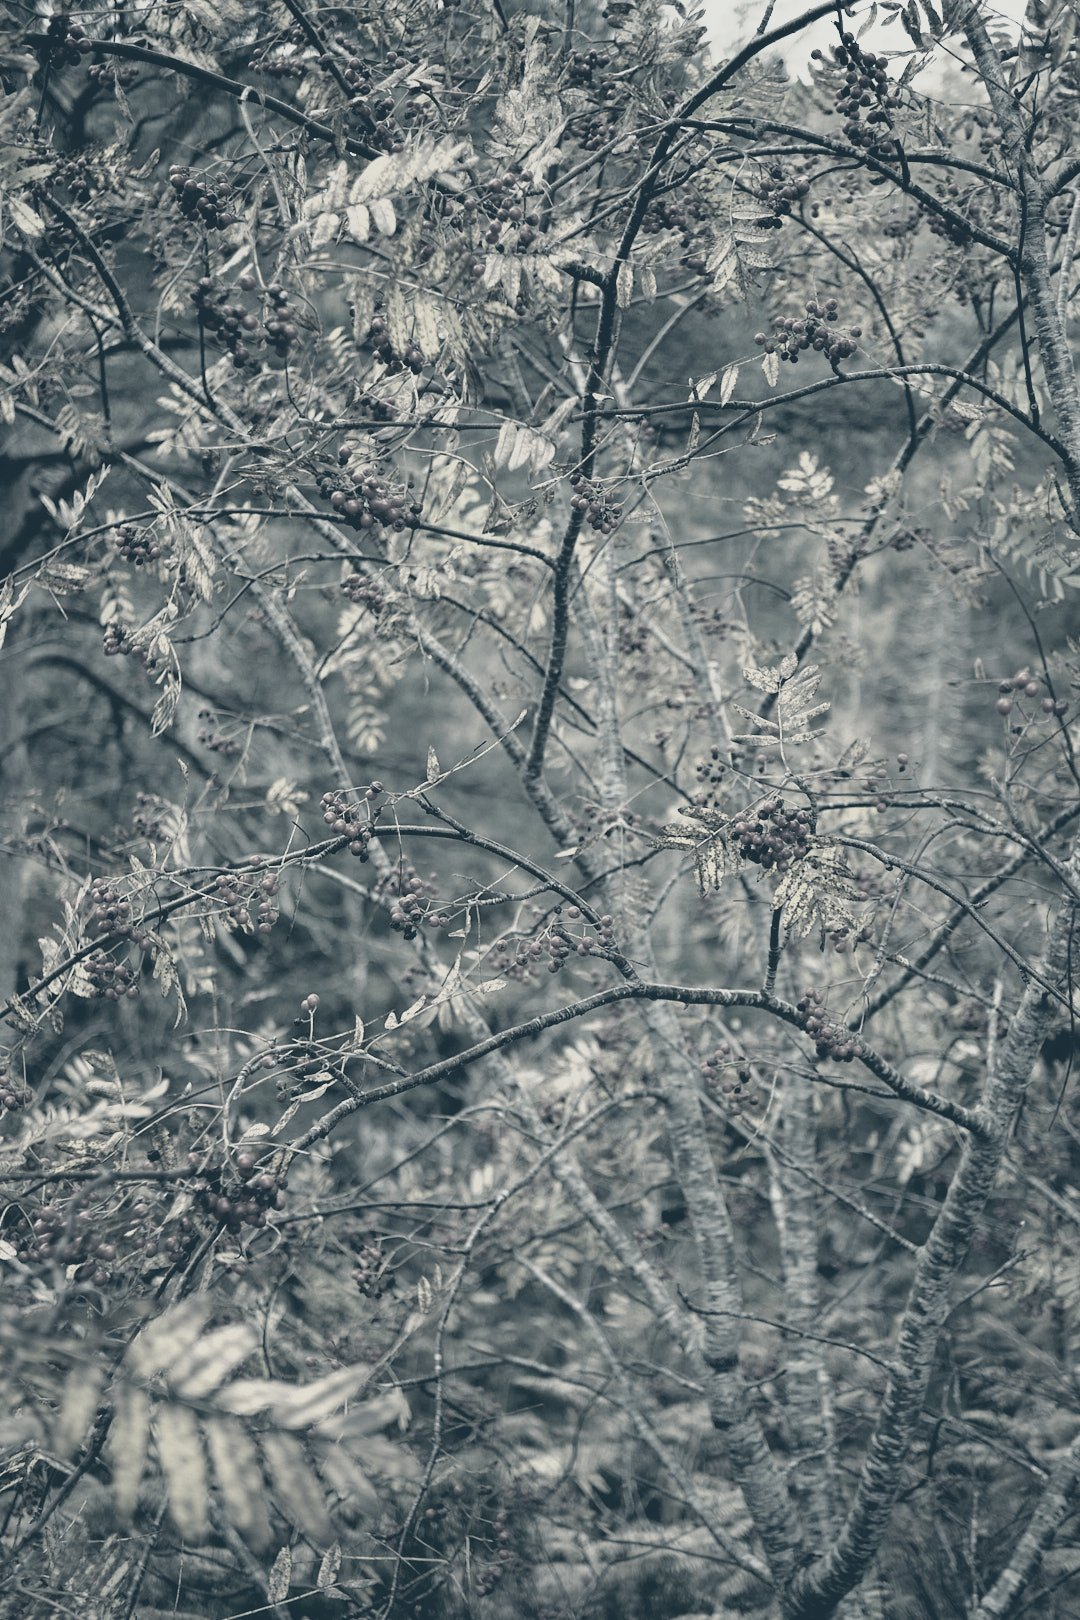
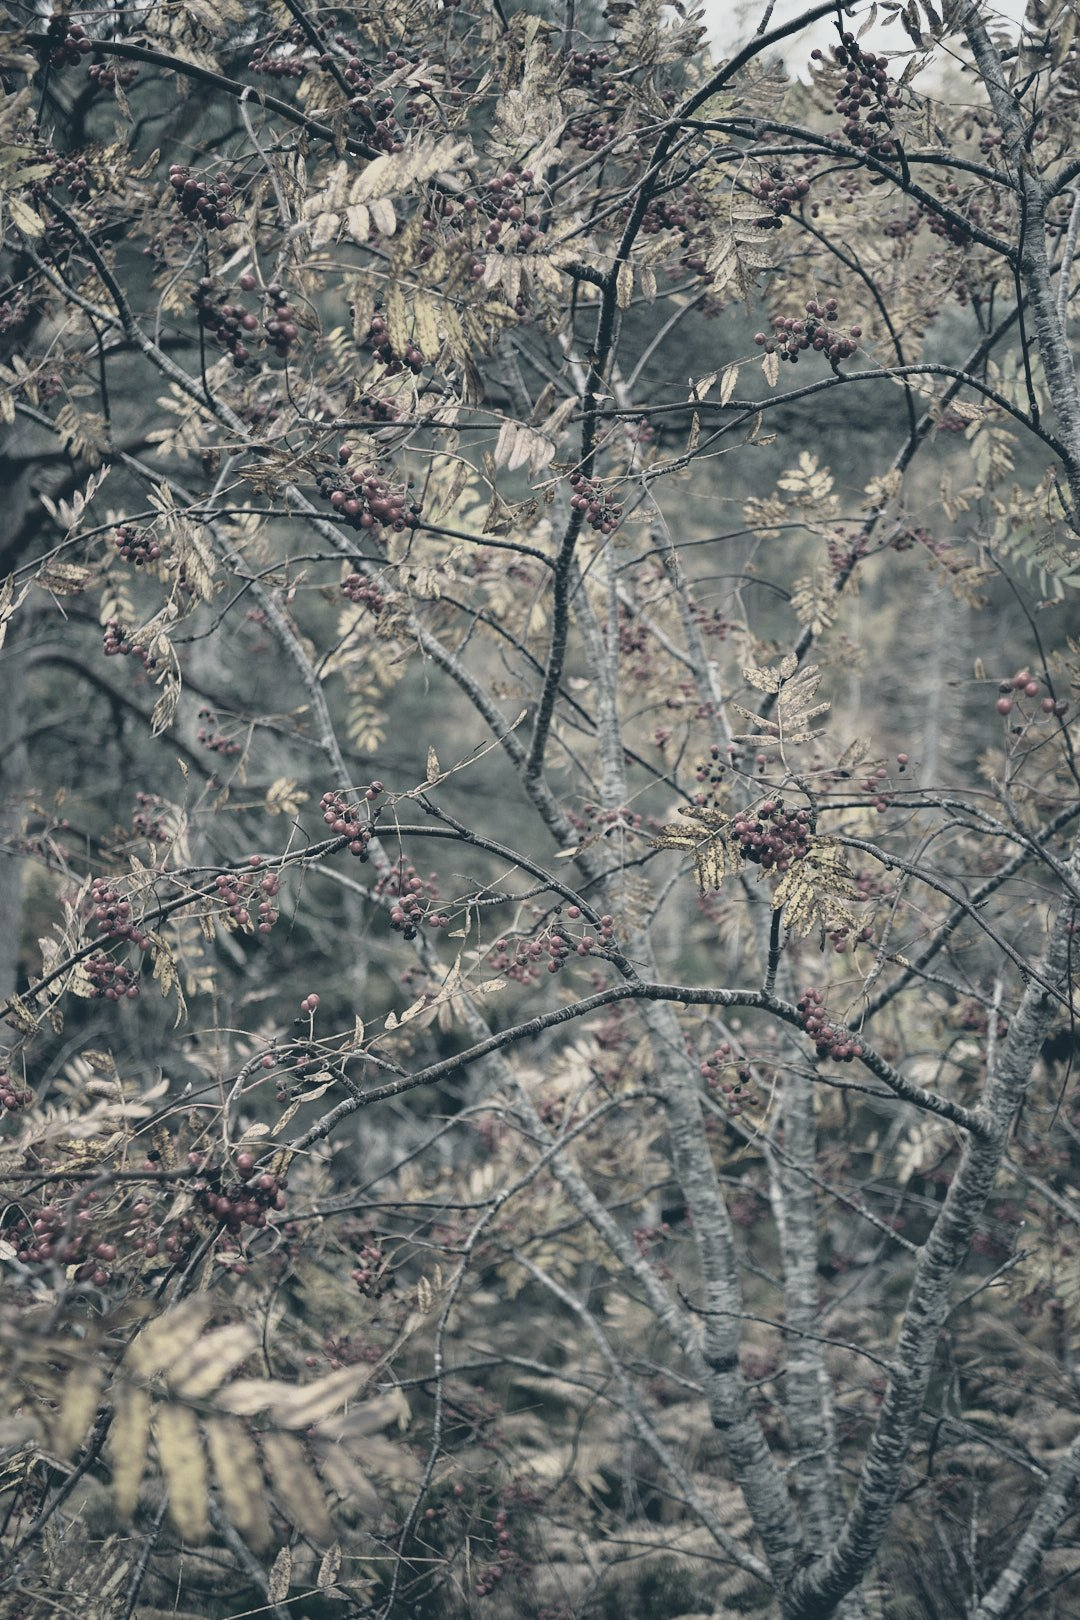
Use strength 0.7 / saturation 0.7 as the duotone default for all scenes

diff --git a/img/scenes/duotone.md b/img/scenes/duotone.md
@@ -22,17 +22,14 @@ defaults:
   midpoint: 127     # where `mid` sits between the two (only if mid is set)
   gamma: 1.0        # >1 darkens midtones, <1 lightens them (applied before colouring)
   cutoff: 1         # % of darkest/lightest pixels clipped by auto-contrast; 0 turns it off
-  strength: 0.85    # 1 = pure duotone; lower lets the original colour show through
-  saturation: 0.5   # saturation of the original colour layer under the duotone (0 = grey)
+  strength: 0.7     # 1 = pure duotone; lower lets the original colour show through
+  saturation: 0.7   # saturation of the original colour layer under the duotone (0 = grey)
   width: 2400       # output width in px (never enlarges)
   aspect: null      # optional crop, e.g. "21:9" or "4:5"
   focus: [0.5, 0.5] # crop centre as fractions of width, height
   quality: 85       # JPEG quality
 
-images:
-  IMG_3203.jpg:
-    strength: 0.7
-    saturation: 0.7
+images: {}
 #  IMG_3250.jpg:
 #    blackpoint: 40
 ---
